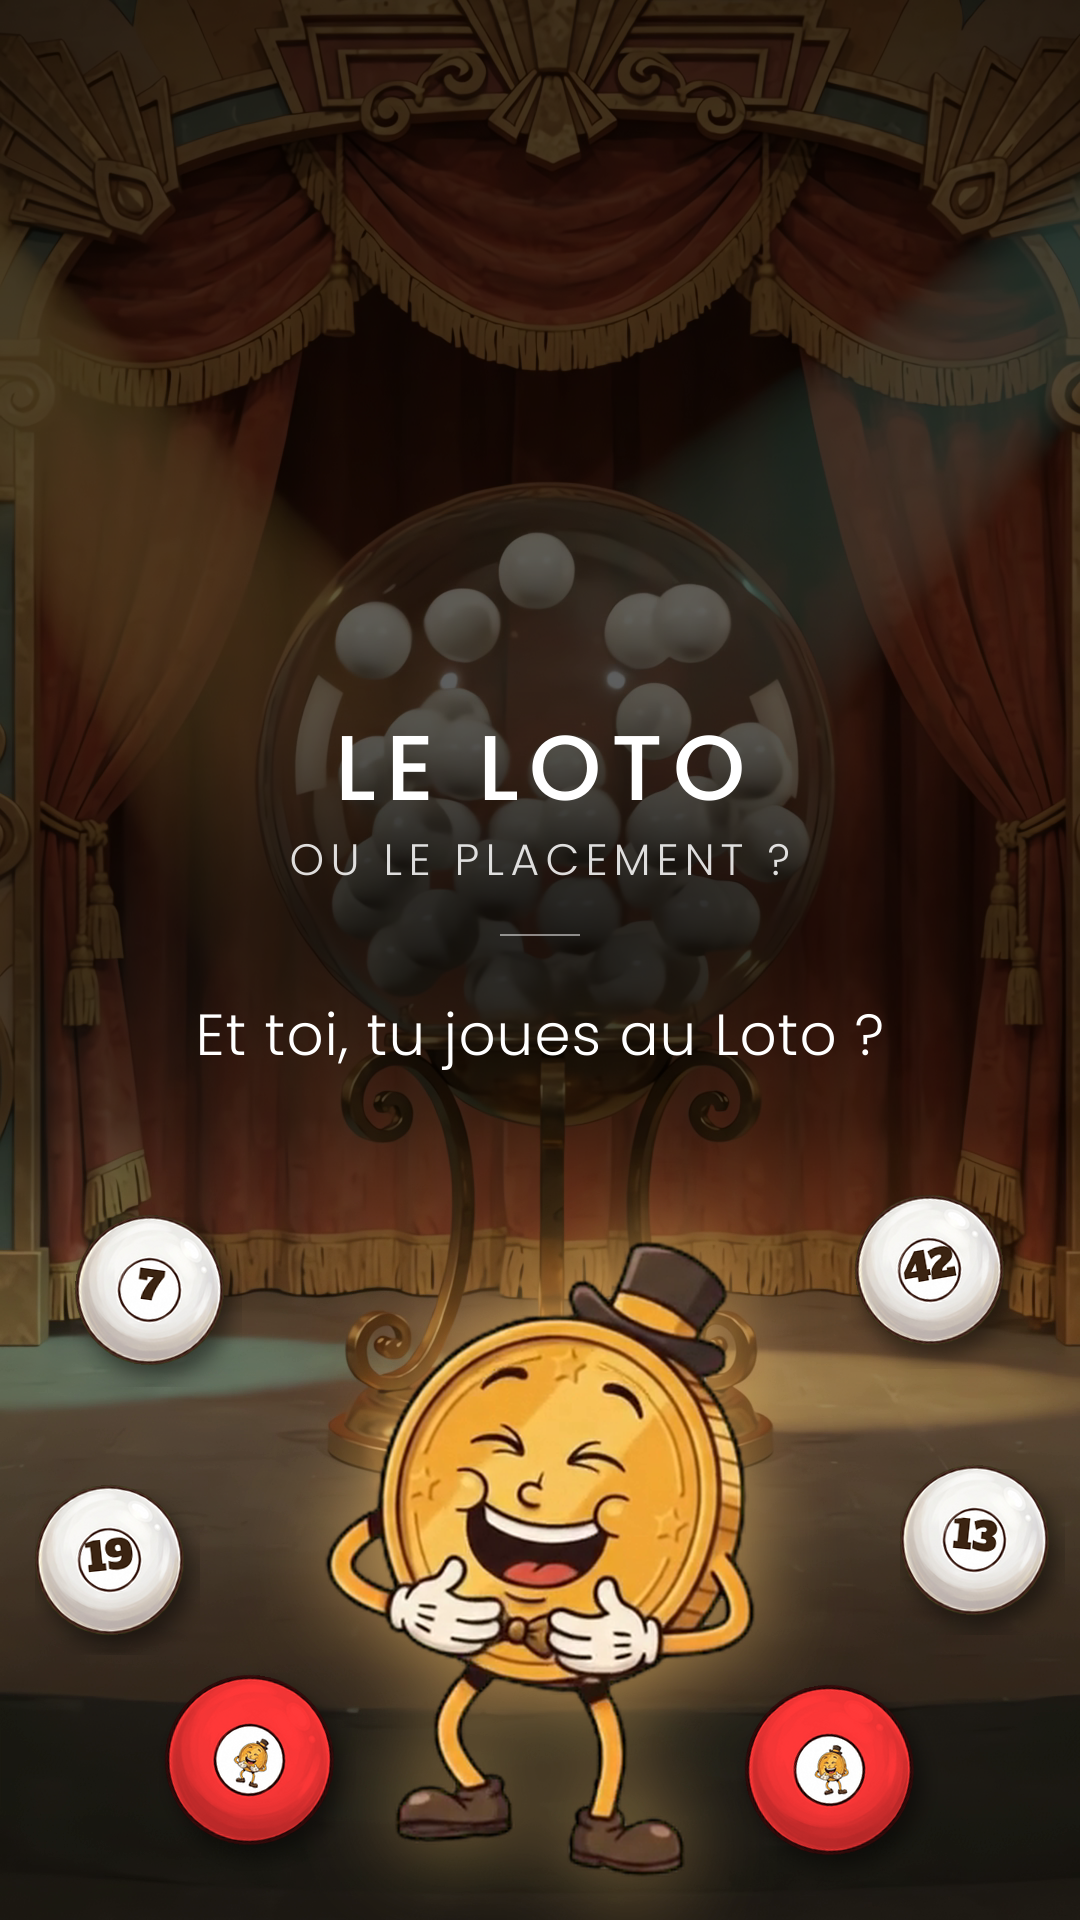
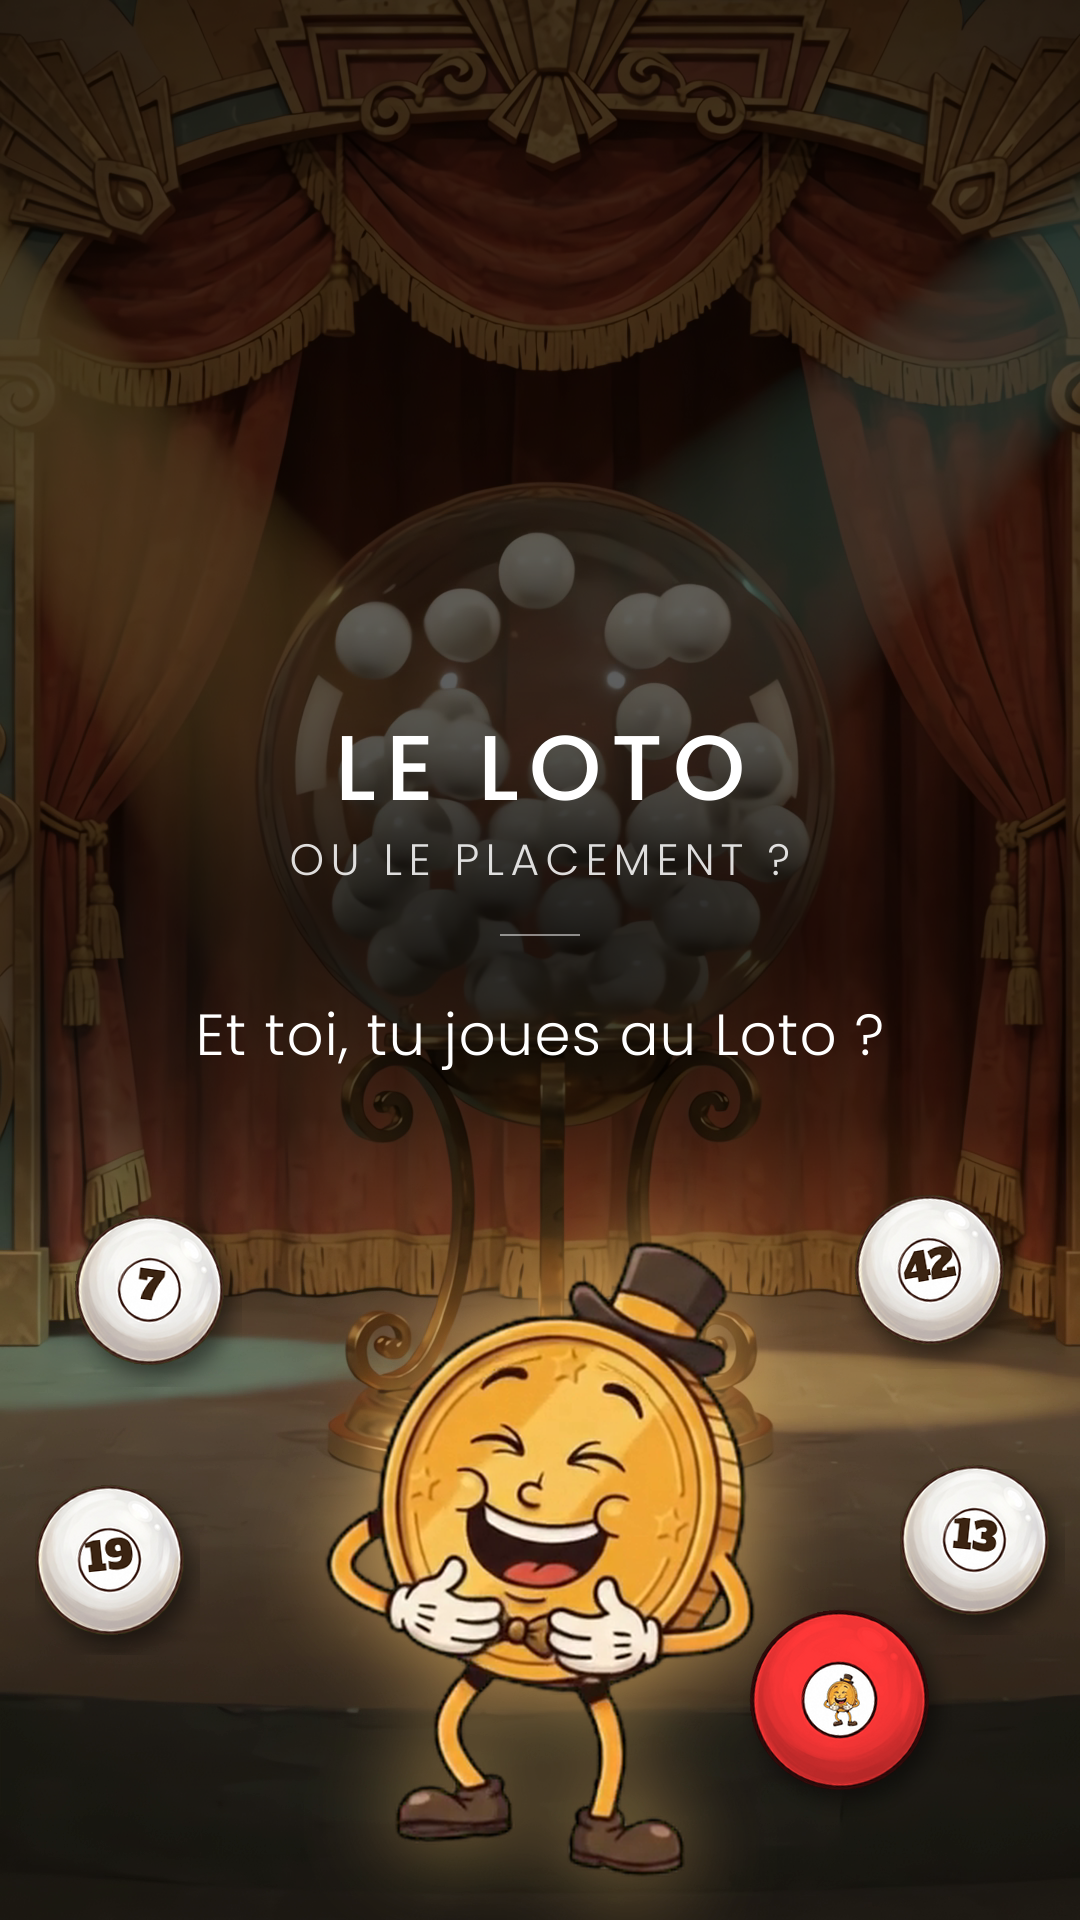
Loto 16/11 : un seul numéro chance (boule rouge), vidéo et couverture
Claude-Session: https://claude.ai/code/session_01VFT2ZKYV9NwmFvCsfcTKi7

Changed region(s): [[0.6722, 0.8125, 0.8556, 0.9688], [0.1528, 0.875, 0.3056, 0.9688]]

diff --git a/episodes/2026-11-16_loto/video_col.py b/episodes/2026-11-16_loto/video_col.py
@@ -287,8 +287,7 @@ def b_tirage(cv, c, t, k):
         for i, (n, ta) in enumerate((("7", 16.7), ("13", 16.95), ("19", 17.2), ("28", 17.45), ("42", 17.7))):     # 5 boules blanches
             x = 150+i*195; y = 470+(25 if i % 2 else 0)
             if t > ta: ball(c, x, y+10*math.sin(t*2.4+i), 82, n, k=t-ta, rot=.15*math.sin(t*1.3+i))
-        for i, ta in enumerate((17.95, 18.2)):                                                                     # 2 boules rouges, Mister Coin qui rit
-            if t > ta: prop(c, 'boule_rouge', 380+i*320, 680+10*math.sin(t*2.1+i), h=190, k=t-ta, rot=.12*math.sin(t*1.5+i), shadow=False)
+        if t > 17.95: prop(c, 'boule_rouge', 540, 680+10*math.sin(t*2.1), h=200, k=t-17.95, rot=.12*math.sin(t*1.5), shadow=False)   # le numéro chance (une seule boule, comme au vrai Loto)
     if t > ze:
         if t < 27.0:
             a = 1-ent(t-26.8, .25) if t > 26.8 else 1
@@ -397,7 +396,7 @@ def events():
     ev = [e for e in V.events()] + [(ta-IR, 'whoosh') for ta in IRIS]
     ev += [(.1, 'impact'), (.5, 'pop'), (1.95, 'bonk'), (2.15, 'thud'), (2.3, 'pop'), (5.05, 'pop'), (6.15, 'impact'), (8.63, 'pop'), (9.2, 'pop'), (10.23, 'pop'),
            (10.85, 'bonk'), (11.2, 'coin'), (12.7, 'thud'), (13.3, 'swish'), (13.6, 'fill1'), (15.6, 'coins')]
-    ev += [(16.5, 'impact'), (16.7, 'pop'), (16.95, 'pop'), (17.2, 'pop'), (17.45, 'pop'), (17.7, 'pop'), (17.95, 'bonk'), (18.2, 'bonk'), (zs+.15, 'riser'), (zs+.1+.92*(21.9-zs-.1), 'tadaa'), (ze+.05, 'thud'), (23.3, 'pop'), (24.6, 'crash'),
+    ev += [(16.5, 'impact'), (16.7, 'pop'), (16.95, 'pop'), (17.2, 'pop'), (17.45, 'pop'), (17.7, 'pop'), (17.95, 'bonk'), (zs+.15, 'riser'), (zs+.1+.92*(21.9-zs-.1), 'tadaa'), (ze+.05, 'thud'), (23.3, 'pop'), (24.6, 'crash'),
            (27.15, 'thud'), (27.6, 'swish'), (28.6, 'fill1'), (30.4, 'pop'), (32.05, 'thud'), (32.2, 'pop'), (33.65, 'bonk')]
     ev += [(34.7, 'thud'), (36.3, 'impact'), (38.25, 'pop'), (39.05, 'impact'), (39.3, 'swish'), (39.5, 'fill2'), (40.9, 'coins'), (42.05, 'thud'), (42.3, 'swish'), (42.9, 'fill0'), (44.3, 'fill2'), (44.6, 'glint')]
     ev += [(37.6+i*.42, 'coin') for i in range(5)]+[(39.6+i*.32, 'coins' if i % 2 else 'coin') for i in range(5)]+[(41.4+i*.55, 'coin') for i in range(8)]   # pièces qui tombent de la machine

diff --git a/episodes/2026-11-16_loto/couverture.py b/episodes/2026-11-16_loto/couverture.py
@@ -46,5 +46,5 @@ hh = 640; ch = ch.resize((int(ch.width*hh/ch.height), hh), Image.LANCZOS)
 x0, y0 = (W-ch.width)//2, 1240
 halo = Image.new('RGBA', (W, H), (255, 200, 110, 0)); gl = Image.new('RGBA', (W, H), 0); gl.alpha_composite(ch, (x0, y0))
 halo.putalpha(gl.getchannel('A').filter(ImageFilter.GaussianBlur(45)).point(lambda v: int(v*.7))); im.alpha_composite(halo); im.alpha_composite(gl)
-ball('boule_rouge', 250, 1760, 170, None, -10); ball('boule_rouge', 830, 1770, 170, None, 12)
+ball('boule_rouge', 840, 1700, 180, None, 10)
 im.convert('RGB').save(path); print('ok')
